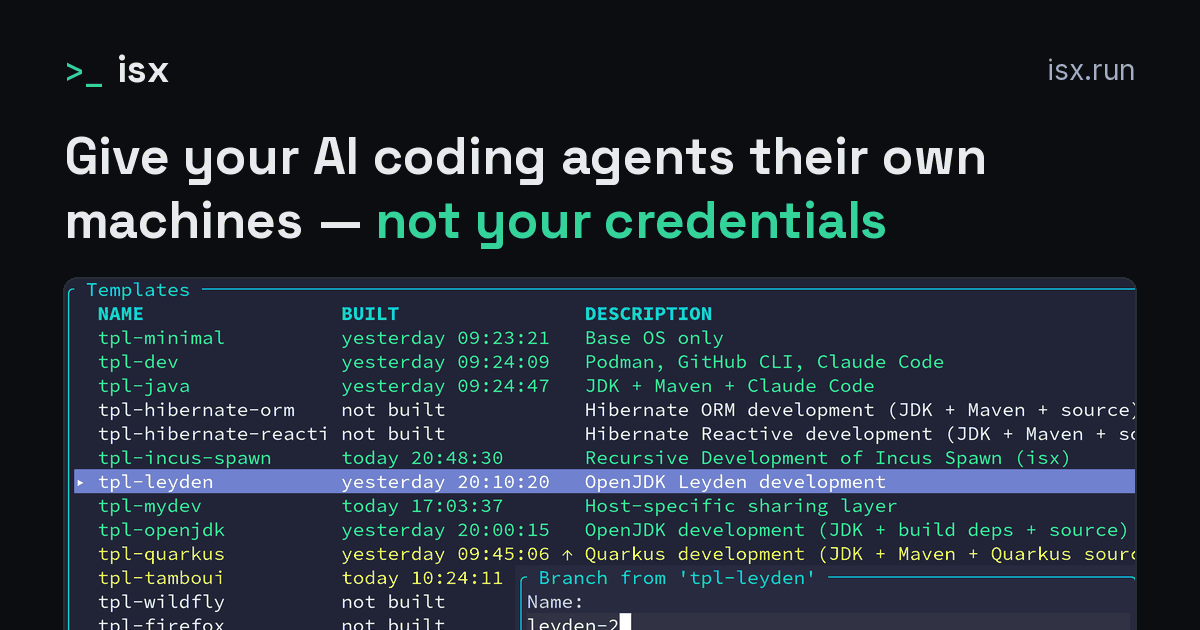
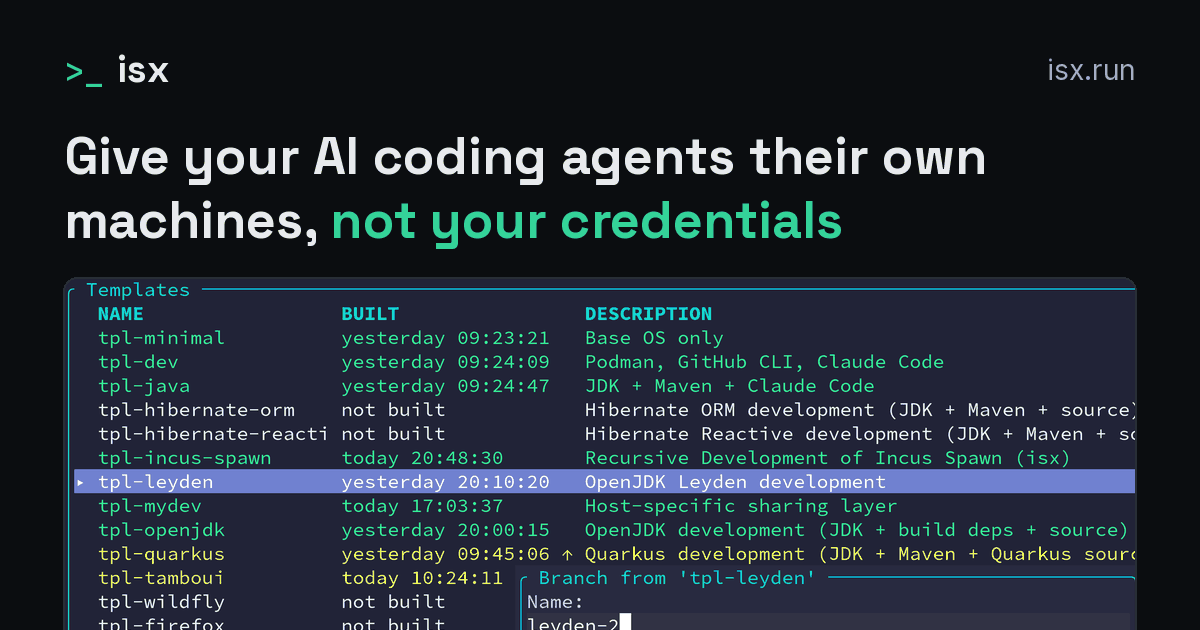
Home page: no dashes, the same as the docs
The writing rules ban a dash joining two parts of a sentence, and the
home page is the reference example of the style. Its headline, the four
shared descriptions and the section prose use a comma, a colon or a full
stop instead; the cast titles use the middle dot the page already uses
in its tagline. The OG image is regenerated from the new headline.

Changed region(s): [[0.2467, 0.3016, 0.74, 0.3921]]

diff --git a/site/index.html b/site/index.html
@@ -3,15 +3,15 @@
 <head>
   <meta charset="utf-8">
   <meta name="viewport" content="width=device-width, initial-scale=1">
-  <title>isx &mdash; Give your AI coding agents their own machines</title>
-  <meta name="description" content="Give your AI coding agents their own machines — not your credentials. Full autonomy on their own workstation. Open source, for Linux and macOS, runs locally.">
+  <title>isx: give your AI coding agents their own machines</title>
+  <meta name="description" content="Give your AI coding agents their own machines, not your credentials. Full autonomy on their own workstation. Open source, for Linux and macOS, runs locally.">
   <meta property="og:title" content="isx">
-  <meta property="og:description" content="Give your AI coding agents their own machines — not your credentials. Full autonomy on their own workstation. Open source, for Linux and macOS, runs locally.">
+  <meta property="og:description" content="Give your AI coding agents their own machines, not your credentials. Full autonomy on their own workstation. Open source, for Linux and macOS, runs locally.">
   <meta property="og:type" content="website">
   <meta property="og:url" content="https://isx.run/">
   <meta name="twitter:card" content="summary_large_image">
   <meta name="twitter:title" content="isx">
-  <meta name="twitter:description" content="Give your AI coding agents their own machines — not your credentials. Full autonomy on their own workstation. Open source, for Linux and macOS, runs locally.">
+  <meta name="twitter:description" content="Give your AI coding agents their own machines, not your credentials. Full autonomy on their own workstation. Open source, for Linux and macOS, runs locally.">
   <meta property="og:image" content="https://isx.run/og.png">
   <meta property="og:image:width" content="1200">
   <meta property="og:image:height" content="630">
@@ -24,7 +24,7 @@
     "@type": "SoftwareApplication",
     "name": "isx",
     "alternateName": "incus-spawn",
-    "description": "Give your AI coding agents their own machines — not your credentials. Full autonomy on their own workstation. Open source, for Linux and macOS, runs locally.",
+    "description": "Give your AI coding agents their own machines, not your credentials. Full autonomy on their own workstation. Open source, for Linux and macOS, runs locally.",
     "url": "https://isx.run/",
     "applicationCategory": "DeveloperApplication",
     "operatingSystem": "Linux, macOS",
@@ -78,14 +78,14 @@
   <div class="hero-bg" aria-hidden="true"></div>
   <div class="hero-inner">
     <p class="eyebrow-pill"><span class="dot"></span>Open source &middot; Linux &amp; macOS &middot; runs locally</p>
-    <h1>Give your AI coding agents their own machines &mdash; <span class="hl">not your credentials</span></h1>
+    <h1>Give your AI coding agents their own machines, <span class="hl">not your credentials</span></h1>
     <p class="subtitle">
       isx onboards agents the way you'd onboard a new teammate: a real Linux workstation of their own,
-      their own accounts instead of your keys, and full autonomy &mdash; they install what they need
+      their own accounts instead of your keys, and full autonomy: they install what they need
       and work without permission prompts, while your computer stays out of their reach.
     </p>
     <p class="subtitle subtitle-secondary">
-      Just as good for triaging untrusted patches and reproducing bug reports &mdash; without risking your computer.
+      Just as good for triaging untrusted patches and reproducing bug reports, without risking your computer.
     </p>
 
     <div class="install-tabs" id="install">
@@ -149,7 +149,7 @@ sudo apt update &amp;&amp; sudo apt install incus-spawn</code></pre>
   </div>
 
   <div class="hero-cast">
-    <div class="cast-frame"><div class="cast-title">isx:fix-bug — the full loop, 80 seconds</div><div class="castbox" data-cast="hero"></div></div>
+    <div class="cast-frame"><div class="cast-title">isx:fix-bug · the full loop, 80 seconds</div><div class="castbox" data-cast="hero"></div></div>
   </div>
 </header>
 
@@ -162,7 +162,7 @@ sudo apt update &amp;&amp; sudo apt install incus-spawn</code></pre>
   <a class="pillar" href="#real-machines">
     <span class="pillar-icon" aria-hidden="true"><svg viewBox="0 0 24 24"><rect x="3" y="4" width="18" height="12" rx="2"/><path d="M8 20h8M12 16v4"/></svg></span>
     <h3>A real machine, full autonomy</h3>
-    <p>Root, packages, services, nested containers &mdash; and no permission prompts, because your computer stays out of reach.</p>
+    <p>Root, packages, services, nested containers, and no permission prompts, because your computer stays out of reach.</p>
   </a>
   <a class="pillar" href="#credentials">
     <span class="pillar-icon" aria-hidden="true"><svg viewBox="0 0 24 24"><path d="M12 3l7 3v5c0 4.5-3 8.3-7 10-4-1.7-7-5.5-7-10V6l7-3z"/><path d="M9 12l2 2 4-4"/></svg></span>
@@ -185,7 +185,7 @@ sudo apt update &amp;&amp; sudo apt install incus-spawn</code></pre>
     </div>
     <div class="feature-body">
       <p>
-        A template is a working environment declared once &mdash; packages, tools, repositories &mdash; and
+        A template is a working environment, packages, tools and repositories, declared once and
         built once. <code>isx branch</code> creates and starts a new machine from it, with your code and all
         your tools already there. Where a git worktree gives you a second working copy in a new directory,
         an isx branch gives you one that is a whole machine, toolchain, dependencies and running services
@@ -199,11 +199,11 @@ sudo apt update &amp;&amp; sudo apt install incus-spawn</code></pre>
         one with one command.
       </p>
     </div>
-    <div class="cast-frame"><div class="cast-title">isx — copy-on-write branches</div><div class="term-static"><pre><code><span class="t-hi">tpl-java</span>  <span class="t-dim">(stopped template, ~2GB)</span>
+    <div class="cast-frame"><div class="cast-title">isx · copy-on-write branches</div><div class="term-static"><pre><code><span class="t-hi">tpl-java</span>  <span class="t-dim">(stopped template, ~2GB)</span>
   &#9500;&#9472;&#9472; <span class="t-ok">fix-nasty-bug</span>    <span class="t-dim">(running, uses ~50MB extra)</span>
   &#9500;&#9472;&#9472; <span class="t-ok">review-pr-423</span>    <span class="t-dim">(running, uses ~30MB extra)</span>
   &#9492;&#9472;&#9472; experiment       <span class="t-dim">(stopped, uses ~10MB extra)</span></code></pre></div></div>
-    <div class="cast-frame"><div class="cast-title">isx — fork a machine, database included</div><div class="castbox" data-cast="branching"></div></div>
+    <div class="cast-frame"><div class="cast-title">isx · fork a machine, database included</div><div class="castbox" data-cast="branching"></div></div>
   </section>
 
   <section class="feature" id="real-machines">
@@ -214,7 +214,7 @@ sudo apt update &amp;&amp; sudo apt install incus-spawn</code></pre>
     <div class="feature-body">
       <p>
         The whole machine means a real one. <strong>Application containers</strong>, the kind Docker and
-        Podman run by default, are built for shipping applications &mdash; a minimal filesystem, one process,
+        Podman run by default, are built for shipping applications: a minimal filesystem, one process,
         fast startup. isx is built for a different job, so an isx sandbox is a workstation: a full
         <strong>system container</strong> powered by <a href="https://linuxcontainers.org/incus/">Incus</a>,
         or a KVM virtual machine, that behaves like a real machine.
@@ -224,14 +224,14 @@ sudo apt update &amp;&amp; sudo apt install incus-spawn</code></pre>
       </p>
       <p>
         What you hand an agent is an investigation, and nobody knows at the start what tools it will need.
-        Templates pre-install your baseline tools and repos, but what the agent gets is a real Linux system &mdash;
-        it can <code>dnf install</code>, <code>pip install</code>, build from source, or run Docker Compose
+        Templates pre-install your baseline tools and repos, but what the agent gets is a real Linux system.
+        It can <code>dnf install</code>, <code>pip install</code>, build from source, or run Docker Compose
         just like on a workstation.
         For the strongest isolation, KVM virtual machines add a separate kernel and hardware-level separation.
         <a href="docs/sandboxes">How this compares with other sandboxes &rarr;</a>
       </p>
     </div>
-    <div class="cast-frame"><div class="cast-title">isx:experiment — root, packages, nested containers</div><div class="castbox" data-cast="realmachine"></div></div>
+    <div class="cast-frame"><div class="cast-title">isx:experiment · root, packages, nested containers</div><div class="castbox" data-cast="realmachine"></div></div>
   </section>
 
   <section class="feature" id="credentials">
@@ -250,11 +250,11 @@ sudo apt update &amp;&amp; sudo apt install incus-spawn</code></pre>
       </p>
       <p>
         Branches run with full internet, proxy-only egress, or completely airgapped. The proxy also caches
-        container image layers and build artifacts on the host &mdash; the same dependency is never
+        container image layers and build artifacts on the host, so the same dependency is never
         downloaded twice.
       </p>
     </div>
-    <div class="cast-frame"><div class="cast-title">isx:experiment — try to steal the credentials</div><div class="castbox" data-cast="creds"></div></div>
+    <div class="cast-frame"><div class="cast-title">isx:experiment · try to steal the credentials</div><div class="castbox" data-cast="creds"></div></div>
   </section>
 
   <section class="feature" id="workflows">
@@ -265,7 +265,7 @@ sudo apt update &amp;&amp; sudo apt install incus-spawn</code></pre>
     <div class="feature-body">
       <p>
         In a git worktree, the commits land in your repository as you make them. A branch is a separate
-        machine, so it gets a git remote instead, managed for you &mdash; and from there on it is the
+        machine, so it gets a git remote instead, managed for you. From there on it is the
         workflow you know: <code>git fetch</code>, then <code>git diff</code>, <code>git cherry-pick</code>
         or <code>git push</code>. You review a specific, immutable commit, never a directory the agent
         can still change.
@@ -275,7 +275,7 @@ sudo apt update &amp;&amp; sudo apt install incus-spawn</code></pre>
         start, and agent skills are baked into the template.
       </p>
     </div>
-    <div class="cast-frame"><div class="cast-title">host — branch, then fetch the commits back</div><div class="term-static"><pre><code><span class="t-prompt">$</span> isx branch --from tpl-quarkus fix-auth
+    <div class="cast-frame"><div class="cast-title">host · branch, then fetch the commits back</div><div class="term-static"><pre><code><span class="t-prompt">$</span> isx branch --from tpl-quarkus fix-auth
 <span class="t-dim"># The agent commits inside fix-auth. Back on the host:</span>
 <span class="t-prompt">$</span> git fetch fix-auth
 <span class="t-prompt">$</span> git diff main..fix-auth/main      <span class="t-dim"># review exactly what it did</span>
@@ -290,7 +290,7 @@ sudo apt update &amp;&amp; sudo apt install incus-spawn</code></pre>
     <div class="feature-body">
       <p>
         The built-in TUI: browse templates and running machines, hit <kbd>F4</kbd> to branch,
-        and land in Claude Code on the fresh machine &mdash; before you finish reading this sentence.
+        and land in Claude Code on the fresh machine before you finish reading this sentence.
         Everything it does is also a command, for your shell and your scripts.
       </p>
       <p>
@@ -301,14 +301,14 @@ sudo apt update &amp;&amp; sudo apt install incus-spawn</code></pre>
         result. Your computer keeps the constraints; the disposable machine gets the freedom.
       </p>
     </div>
-    <div class="cast-frame"><div class="cast-title">isx — the TUI</div><div class="castbox" data-cast="tui"></div></div>
+    <div class="cast-frame"><div class="cast-title">isx · the TUI</div><div class="castbox" data-cast="tui"></div></div>
   </section>
 
 </main>
 
 <section class="closing">
   <h2>Full autonomy. Least privilege.</h2>
-  <p>Free to install and build its own tools &mdash; on its own machine.</p>
+  <p>Free to install and build its own tools, on its own machine.</p>
   <div class="cta-links">
     <a class="primary" href="#install">Install isx</a>
     <a class="secondary" href="docs">Read the docs &rarr;</a>
@@ -419,7 +419,7 @@ document.addEventListener("DOMContentLoaded", function () {
     if (!opts.loop) {
       var card = document.createElement("div");
       card.className = "endcard";
-      card.innerHTML = "<span>&#8718;&nbsp; demo finished &mdash; click to replay</span>";
+      card.innerHTML = "<span>&#8718;&nbsp; demo finished · click to replay</span>";
       box.appendChild(card);
       player.addEventListener("ended", function () { box.classList.add("done"); });
       card.addEventListener("click", function () { box.classList.remove("done"); player.play(); });

diff --git a/site/og-image.py b/site/og-image.py
@@ -14,7 +14,7 @@ from fontTools.varLib import instancer
 from PIL import Image, ImageDraw, ImageFont
 
 SITE = os.path.dirname(os.path.abspath(__file__))
-HEADLINE = "Give your AI coding agents their own machines —"
+HEADLINE = "Give your AI coding agents their own machines,"
 HIGHLIGHT = "not your credentials"
 DOMAIN = "isx.run"
 
